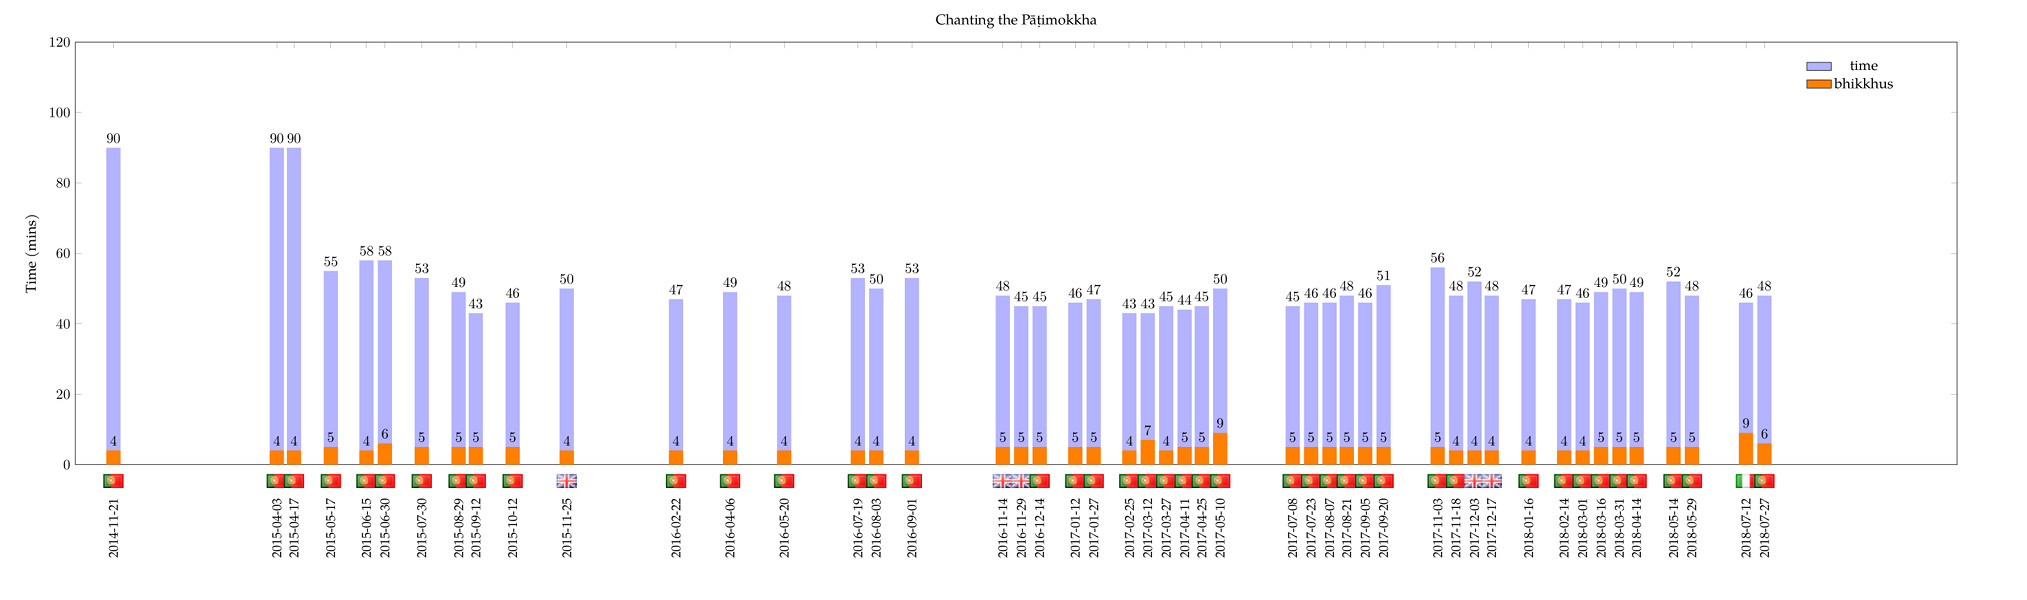
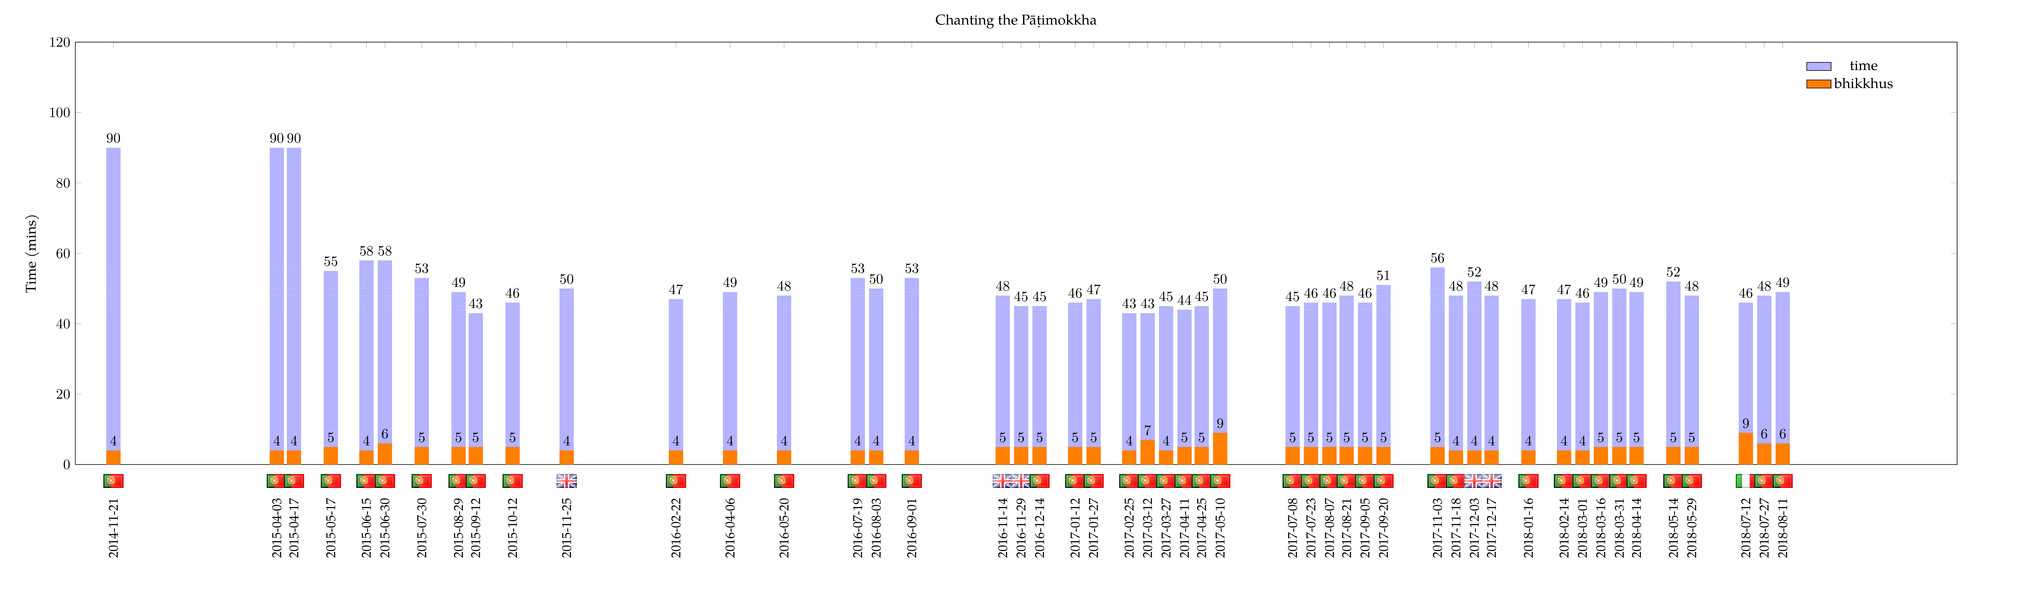
upd

diff --git a/src/patimokkha-chanting-chart.tex b/src/patimokkha-chanting-chart.tex
@@ -135,6 +135,7 @@
   \node [anchor=south, yshift=-20pt] at (axis cs:2018-05-29,0) {\includegraphics[width=5mm]{pt}};
   \node [anchor=south, yshift=-20pt] at (axis cs:2018-07-12,0) {\includegraphics[width=5mm]{it}};
   \node [anchor=south, yshift=-20pt] at (axis cs:2018-07-27,0) {\includegraphics[width=5mm]{pt}};
+  \node [anchor=south, yshift=-20pt] at (axis cs:2018-08-11,0) {\includegraphics[width=5mm]{pt}};
 
 \end{axis}
 \end{tikzpicture}
